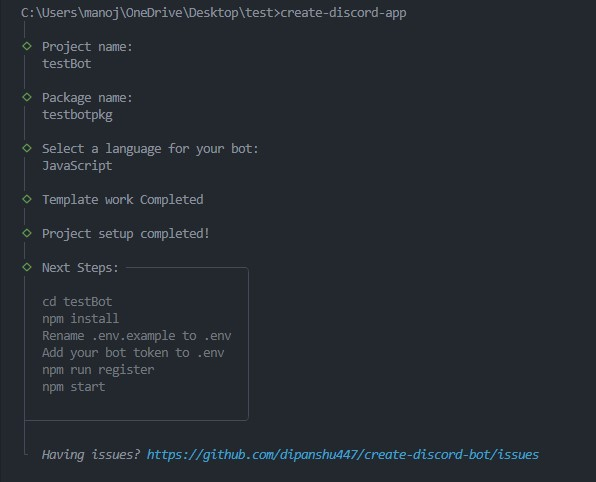
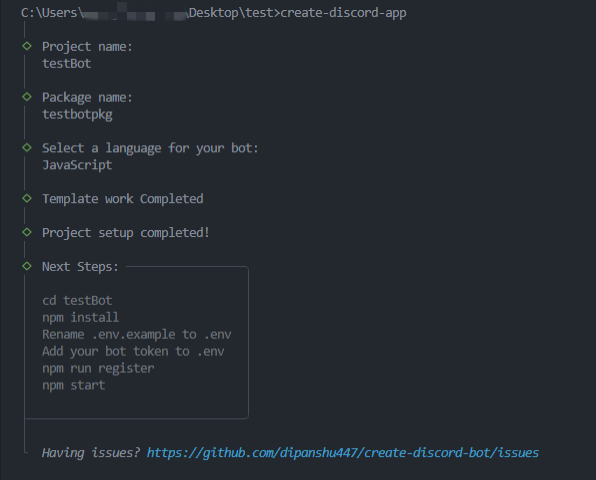
docs: terminal preview added

diff --git a/README.md b/README.md
@@ -90,22 +90,7 @@ npm create discord-app
 
 Follow the interactive prompts:
 
-```bash (ADD COMMAND LINE IMAGE INSTEAD)
-? Project name: my-awesome-bot
-? Package name: my-awesome-bot
-? Select a language for your bot: JavaScript (recommended)
-
-✔ Creating your discord bot...
-✔ Project setup completed!
-
-Next Steps:
-  cd my-awesome-bot
-  npm install
-  Rename .env.example to .env
-  Add your bot token to .env
-  npm run register
-  npm start
-```
+![Terminal Preview](https://github.com/dipanshu447/create-discord-app/blob/main/.github/terminal-preview.jpg)
 
 ### Create in Current Directory
 
